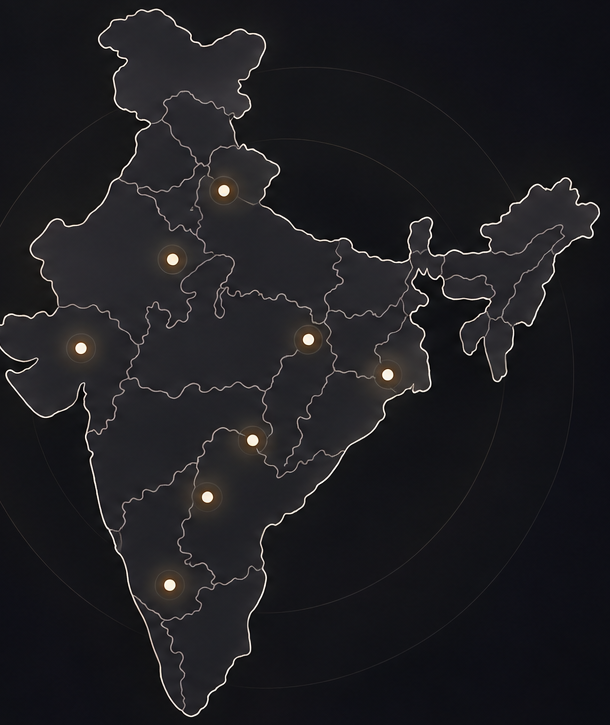
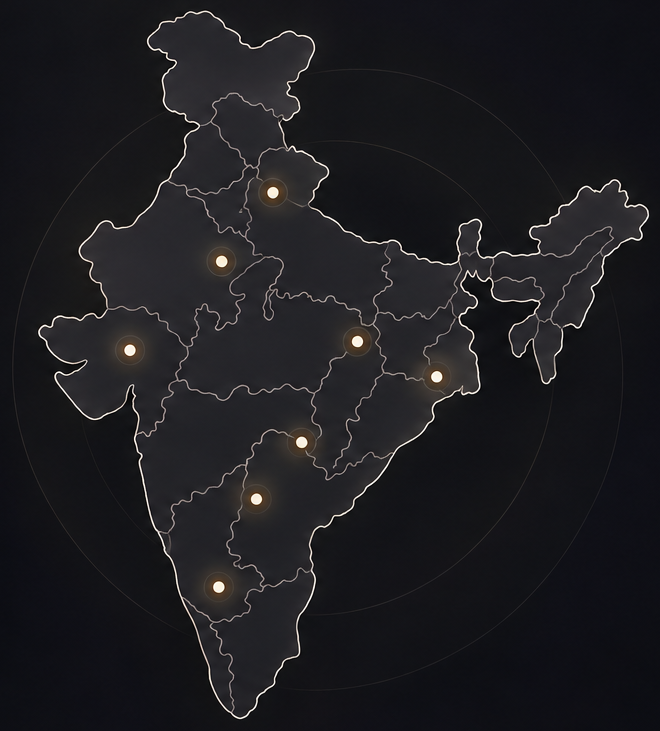
fix: restore cropped western Gujarat border on India map and update hotspot coordinates

Changed region(s): [[0.0, 0.0, 0.9967, 1.0]]

diff --git a/frontend/src/pages/public/LocationsPage.tsx b/frontend/src/pages/public/LocationsPage.tsx
@@ -265,8 +265,8 @@ export const LocationsPage: React.FC = () => {
                 </button>
               </div>
 
-              {/* Tightly-fitted India Map (Snug boundaries, zero excess empty space) */}
-              <div className="relative w-full aspect-[610/725] mx-auto flex items-center justify-center mt-1 overflow-hidden">
+              {/* Tightly-fitted India Map (Full western Gujarat intact, zero excess empty space) */}
+              <div className="relative w-full aspect-[660/731] mx-auto flex items-center justify-center mt-1 overflow-hidden">
                 <img
                   src={isLight ? '/india-map-light.png' : '/india-map-dark.png'}
                   alt="Coverage Across India Map"
@@ -274,15 +274,15 @@ export const LocationsPage: React.FC = () => {
                   draggable={false}
                 />
 
-                {/* Interactive Hotspots matching tightly-cropped map coordinates */}
+                {/* Interactive Hotspots matching uncropped India map coordinates */}
                 {[
-                  { name: 'Delhi', left: 31, top: 32 },
-                  { name: 'Jaipur', left: 24.5, top: 35.5 },
-                  { name: 'Mumbai', left: 17, top: 56 },
-                  { name: 'Pune', left: 20.5, top: 59 },
-                  { name: 'Hyderabad', left: 36.5, top: 59 },
-                  { name: 'Bengaluru', left: 31, top: 75 },
-                  { name: 'Kolkata', left: 63, top: 51 },
+                  { name: 'Delhi', left: 33.5, top: 35 },
+                  { name: 'Jaipur', left: 28, top: 38 },
+                  { name: 'Mumbai', left: 21, top: 58 },
+                  { name: 'Pune', left: 23.5, top: 62 },
+                  { name: 'Hyderabad', left: 39, top: 62 },
+                  { name: 'Bengaluru', left: 34, top: 76 },
+                  { name: 'Kolkata', left: 66, top: 52 },
                 ].map((pin) => {
                   const isSelected = activeCity?.name.toLowerCase() === pin.name.toLowerCase();
                   return (
